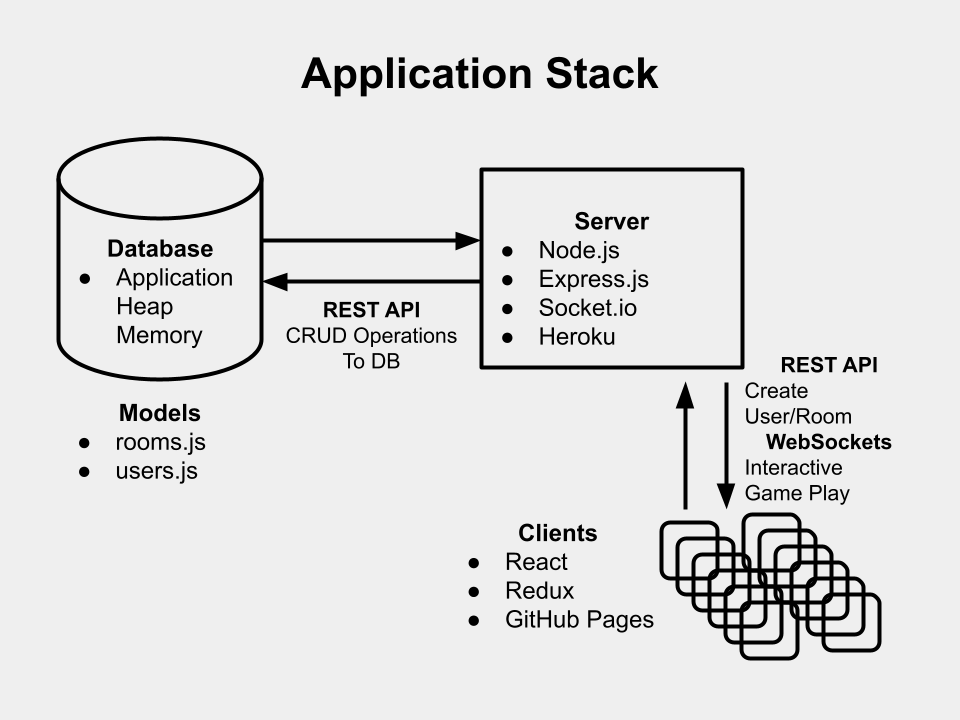
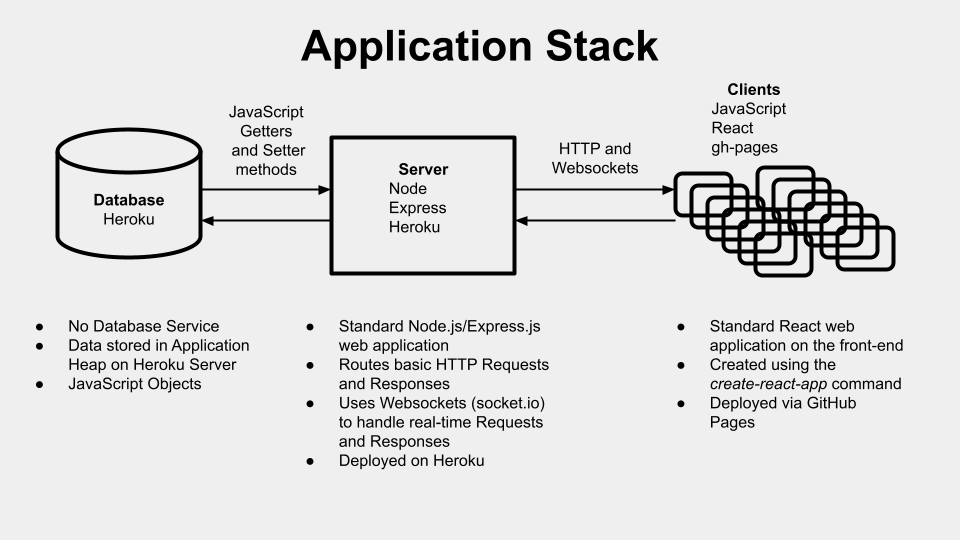
BlackJack - Architecture

diff --git a/src/components/blackjack/content/Architecture.tsx b/src/components/blackjack/content/Architecture.tsx
@@ -1,6 +1,6 @@
 import React from 'react';
 import stack from './images/stack.png';
-// import pipeline from './images/pipeline.png';
+import pipeline from './images/pipeline.png';
 
 const Architecture = () => {
     return(
@@ -13,7 +13,7 @@ const Architecture = () => {
             <div className="section-item">
                 <h3>Application Pipeline</h3>
                 <p>The image below illustrates a high level overview of the application's pipeline.</p>
-                {/* <img className="item-image" src={pipeline}/> */}
+                <img className="item-image" src={pipeline}/>
             </div>
         </div>
     )
